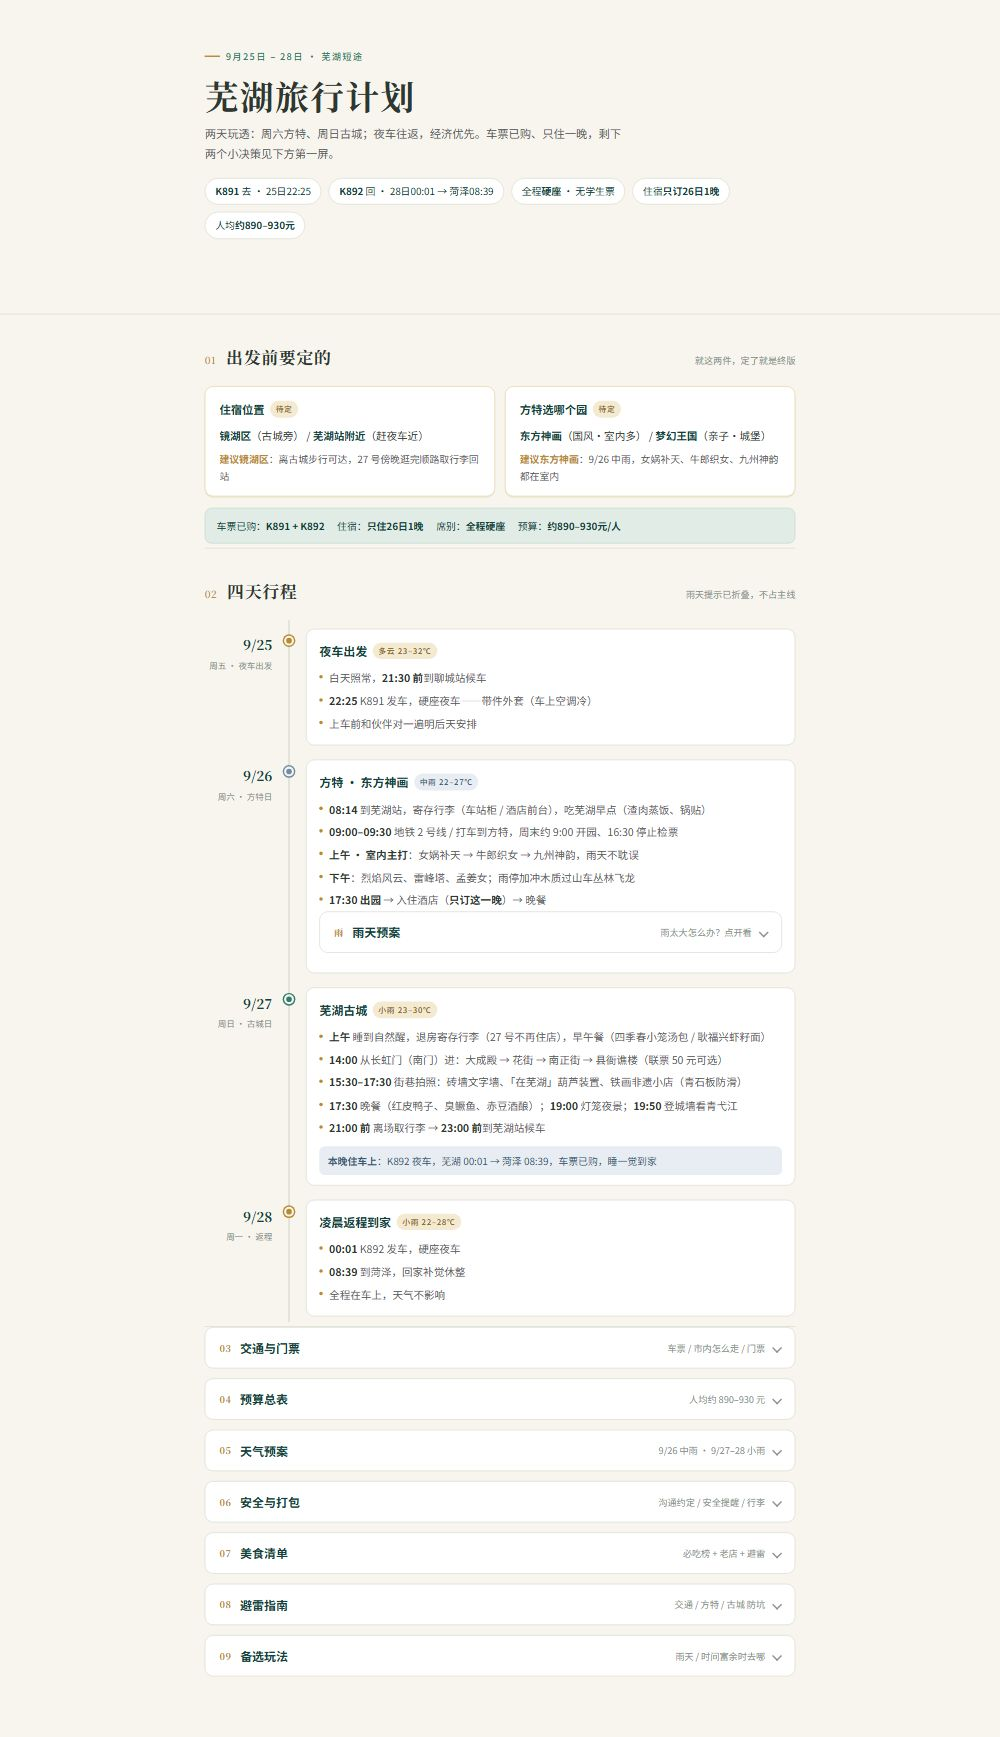
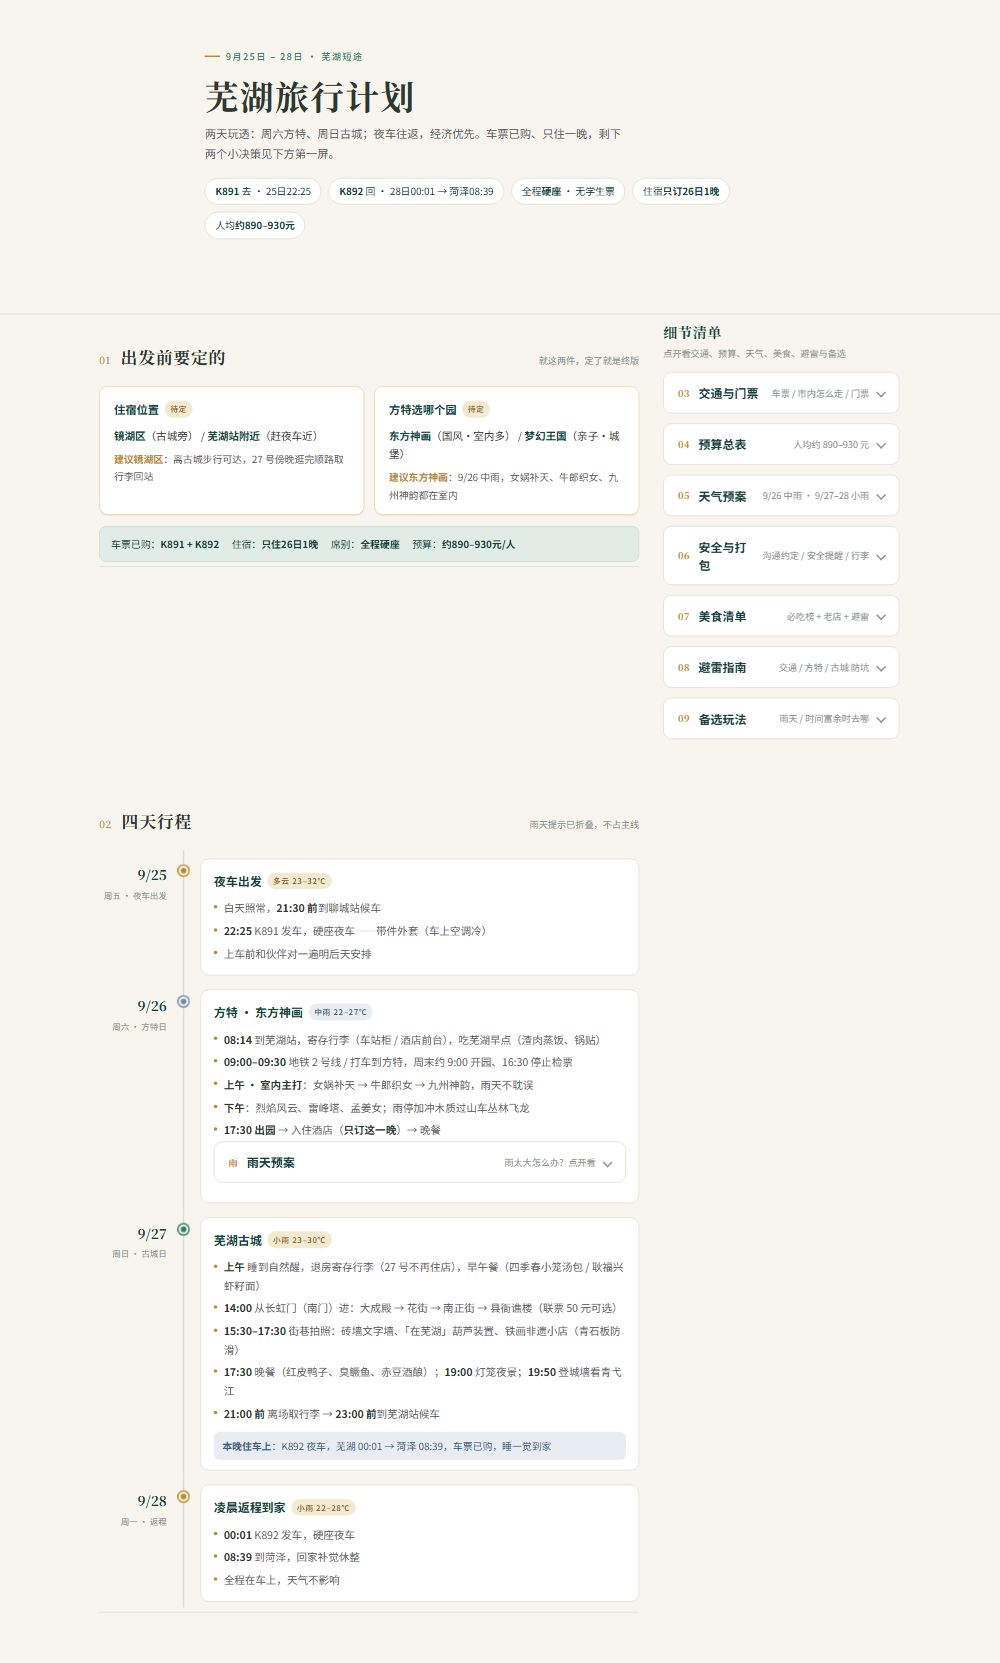
更新芜湖旅行计划

diff --git a/芜湖旅行计划.html b/芜湖旅行计划.html
@@ -34,6 +34,10 @@
     -webkit-font-smoothing:antialiased;
   }
   .wrap{max-width:880px;margin:0 auto;padding:0 20px 72px;}
+  main.wrap{max-width:1180px;display:grid;grid-template-columns:minmax(0,1fr) 340px;gap:32px;align-items:start;}
+  main.wrap > *{min-width:0;}
+  main.wrap > section.block{grid-column:1;}
+  aside.side{grid-column:2;grid-row:1 / -1;}
   .serif{font-family:"Noto Serif SC","Songti SC","SimSun",serif;}
 
   /* ===== Hero ===== */
@@ -140,6 +144,8 @@
   .alt-note b{font-weight:700;}
 
   /* 折叠面板 */
+  aside.side{align-self:start;position:sticky;top:20px;max-height:calc(100vh - 40px);overflow:auto;padding:2px 2px 10px;}  .side-title{font-size:20px;letter-spacing:1px;color:var(--teal-dark);margin:6px 0 2px;}
+  .side-note{font-size:13px;color:var(--ink-faint);margin-bottom:14px;}
   .acc{
     border:1px solid var(--line);border-radius:12px;background:var(--card);
     margin-bottom:14px;overflow:hidden;
@@ -234,7 +240,13 @@
     .timeline{grid-template-columns:62px 22px 1fr;column-gap:6px;}
     .tl-date{font-size:16px;}
     .acc-btn .acc-desc{display:none;}
-    th,td{padding:8px 8px;font-size:14px;}  }
+    th,td{padding:8px 8px;font-size:14px;}
+  }
+  @media (max-width:1024px){
+    main.wrap{grid-template-columns:1fr;}
+    main.wrap > section.block{grid-column:auto;}
+    aside.side{grid-column:auto;grid-row:auto;position:static;max-height:none;overflow:visible;}
+  }
 </style>
 </head>
 <body>
@@ -353,6 +365,10 @@
       </div>
     </div>
   </section>
+
+  <aside class="side">
+    <h4 class="side-title serif">细节清单</h4>
+    <p class="side-note">点开看交通、预算、天气、美食、避雷与备选</p>
 
   <!-- ===== 03 交通与门票 ===== -->
   <div class="acc" id="transport">
@@ -623,6 +639,7 @@
     </div>
   </div>
 
+  </aside>
 </main>
 <script>
 (function(){
